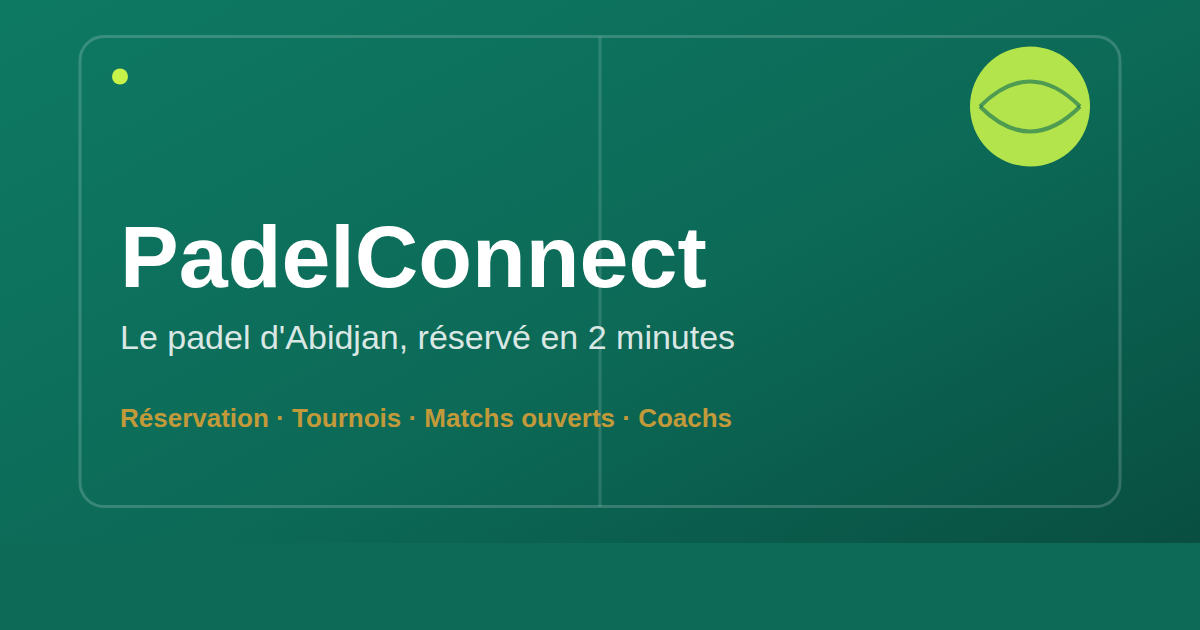
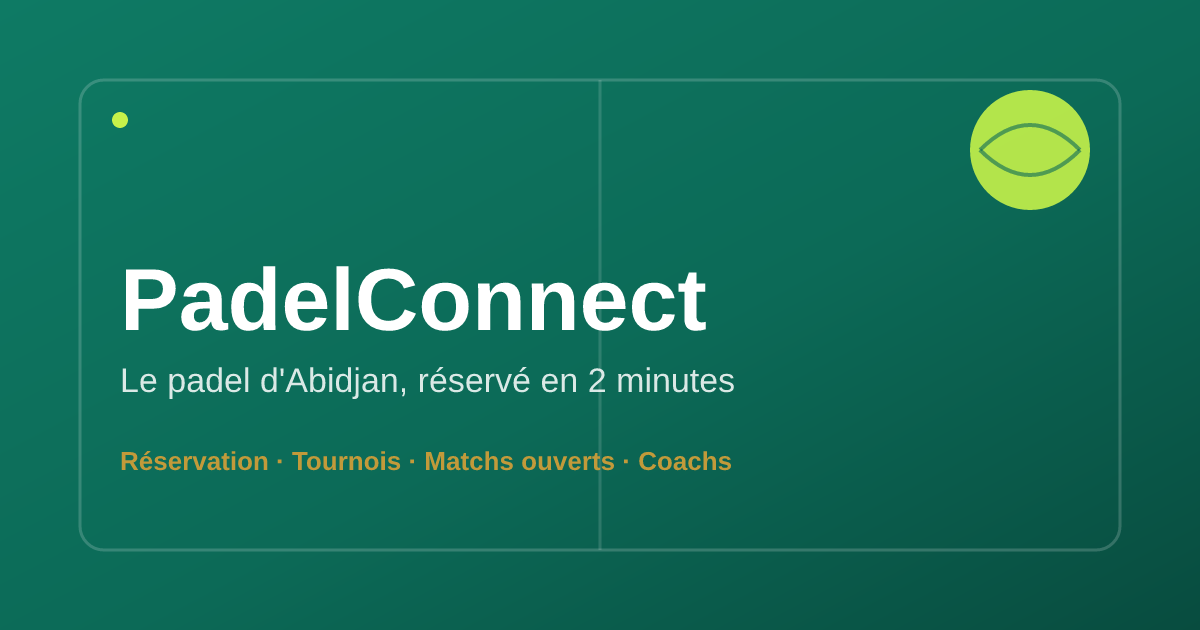
Version 1.0.3 — image d'aperçu og.png régénérée depuis og.svg (décalage réparé), site redéployé
Claude-Session: https://claude.ai/code/session_019TBkKM7XCd1WMHDRthpmQt

diff --git a/docs/STORE-LISTING.md b/docs/STORE-LISTING.md
@@ -49,7 +49,7 @@ Ces textes décrivent le **binaire #69**. Ils ne doivent partir qu'une fois ces 
       opérateur → Finances). S'il change, corriger « jusqu’à 5 000 FCFA » partout dans ce fichier
       (4 blocs : texte promotionnel, description iOS, nouveautés, description Play ; garder les
       espaces insécables).
-- [ ] `app.json` → `expo.version` passé à **`1.0.3`** AVANT le build #69 (la 1.0.2 est publiée :
+- [x] `app.json` → `expo.version` passé à **`1.0.3`** AVANT le build #69 (la 1.0.2 est publiée :
       App Store Connect refuse un binaire 1.0.2). `autoIncrement` ne touche que `buildNumber`.
 - [ ] Le parcours rapide tient réellement en **moins de 2 minutes** sur le **#69 installé**
       (chronométré : ouvrir l'app connectée → onglet Réserver → réservation confirmée). La promesse
@@ -96,9 +96,9 @@ T=$(mktemp -d) && npm i --prefix "$T" --no-audit --no-fund @resvg/resvg-js@2.6.2
 file site/og.png   # PNG image data, 1200 x 630
 ```
 
-Le `og.png` actuel est décalé d'environ 40 px vers le haut, avec une bande unie en bas : ce rendu,
-fidèle au SVG, le répare au passage. Un aperçu déjà mis en cache par une messagerie peut garder un
-temps l'ancienne image après le redéploiement.
+✅ Commande exécutée le 2026-10-23 (même texte) : l'ancien `og.png`, décalé d'environ 40 px vers le
+haut avec une bande unie en bas, est remplacé par ce rendu fidèle au SVG et `site/` redéployé. Un
+aperçu déjà mis en cache par une messagerie peut garder un temps l'ancienne image.
 
 ---
 
